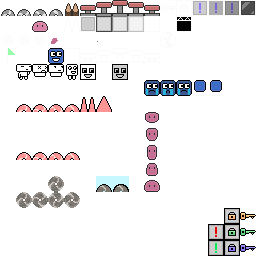
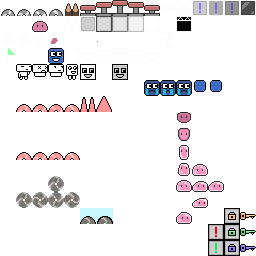
more fucking around with player art

diff --git a/src/main.rs b/src/main.rs
@@ -17,7 +17,7 @@ use networking::{networked_players::{remove_disconnected_players, spawn_new_play
 
 mod stage_select;
 use obstacles::check_insta_kill_collisions;
-use player::{common::check_player_out_of_bounds, dash_controller::{apply_dashing, start_dashing}, death::trigger_dead_local_player_respawn, horizontal_movement_controller::{move_airbourne_horizontal_controller, move_ground_horizontal_controller}, jump_controller::{apply_wall_friction, begin_player_jump, check_jump_fall_states, is_coyote_grounded, maintain_player_jump, update_last_grounded}, look_state::{update_player_airborn_look_state, update_player_grounded_look_state}, physics_controller::apply_physics_controller_limits, spawner::spawn_local_players, wall_jump_controller::{add_wall_stuck, begin_player_wall_jump, remove_wall_stuck, update_wall_stuck, update_wall_stuck_time}};
+use player::{animation::update_player_animation, common::check_player_out_of_bounds, dash_controller::{apply_dashing, start_dashing}, death::trigger_dead_local_player_respawn, horizontal_movement_controller::{move_airbourne_horizontal_controller, move_ground_horizontal_controller}, jump_controller::{apply_wall_friction, begin_player_jump, check_jump_fall_states, is_coyote_grounded, maintain_player_jump, update_last_grounded}, look_state::{update_player_airborn_look_state, update_player_grounded_look_state}, physics_controller::apply_physics_controller_limits, spawner::spawn_local_players, wall_jump_controller::{add_wall_stuck, begin_player_wall_jump, remove_wall_stuck, update_wall_stuck, update_wall_stuck_time}};
 use ground::check_grounded;
 use stage::{stage_builder::StageBuilderPlugin, stage_objects::{interval_block::{stop_interval_block_crush, tick_interval_blocks}, lock_block::read_lock_block_triggers, phantom_block::{check_phantom_block_touched, tick_phantom_block}, saw_shooter::tick_saw_shooters}};
 use stage_editor::{renderer::systems::{draw_editor, refresh_editor_renderer}, StageEditorPlugin};
@@ -81,6 +81,7 @@ fn main() {
         .add_systems(Update, (start_dashing, break_fragiles, tick_saw_shooters, move_offset_movers, tick_phantom_block, check_phantom_block_touched, stop_interval_block_crush, tick_interval_blocks, check_touched_by_death, read_lock_block_triggers, trigger_on_touch, check_bouncy_collisions, check_animate_on_touch, update_player_airborn_look_state, update_player_grounded_look_state, update_player_look_direction))
         .add_systems(Update, (refresh_editor_renderer, draw_editor, update_mouse_data))
         .add_systems(Update, (move_airbourne_horizontal_controller, move_ground_horizontal_controller, apply_dashing).chain())
+        .add_systems(Update, (update_player_animation))
         .add_event::<TriggerEvent>()
         .run();
 }

diff --git a/src/player/animation.rs b/src/player/animation.rs
@@ -1,0 +1,22 @@
+
+use bevy::prelude::*;
+use bevy_rapier2d::prelude::Velocity;
+
+use crate::{local_player::LocalPlayer, stage::stage_builder::stage_creator::{get_object_tilemap_rect_from_index, ObjectAtlasIndices}};
+
+
+pub fn update_player_animation(
+    mut query: Query<(&mut Sprite, &Velocity), With<LocalPlayer>>
+) {
+    for (mut sprite, vel) in &mut query {
+        if vel.linvel.x.abs() < 5.0 {
+            sprite.rect = get_object_tilemap_rect_from_index(ObjectAtlasIndices::PlayerIdle0).into();
+        }
+        else if vel.linvel.x.abs() < 70.0 {
+            sprite.rect = get_object_tilemap_rect_from_index(ObjectAtlasIndices::PlayerRight0).into();
+        }
+        else {
+            sprite.rect = get_object_tilemap_rect_from_index(ObjectAtlasIndices::PlayerRight1).into();
+        }
+    }
+}

diff --git a/src/local_player.rs b/src/local_player.rs
@@ -154,7 +154,7 @@ pub fn load_player_sprite(
 
     for (e, mut s) in &mut query {
         commands.entity(e).try_insert(tilemap.clone());
-        s.rect = Some(player_rect);
+        //s.rect = Some(player_rect);
         s.custom_size = Some(Vec2::new(1.0, 1.0));
     }
 }

diff --git a/src/stage/stage_builder/stage_creator.rs b/src/stage/stage_builder/stage_creator.rs
@@ -42,6 +42,9 @@ pub enum ObjectAtlasIndices {
     SawProjectile1 = 33,
     SawProjectile2 = 34,
     SawShooter = 27,
+    PlayerIdle0 = 187,
+    PlayerRight0 = 188,
+    PlayerRight1 = 189,
 }
 
 

diff --git a/src/player/mod.rs b/src/player/mod.rs
@@ -7,3 +7,4 @@ pub mod common;
 pub mod spawner;
 pub mod death;
 pub mod dash_controller;
+pub mod animation;
